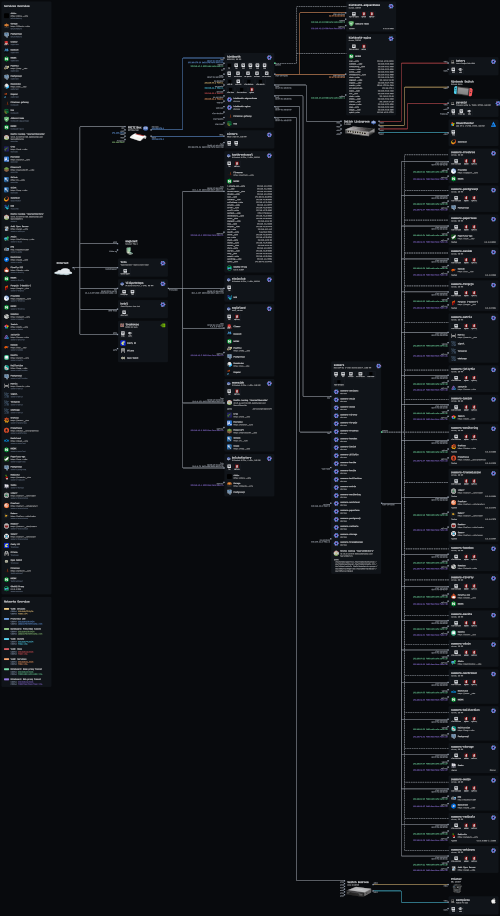
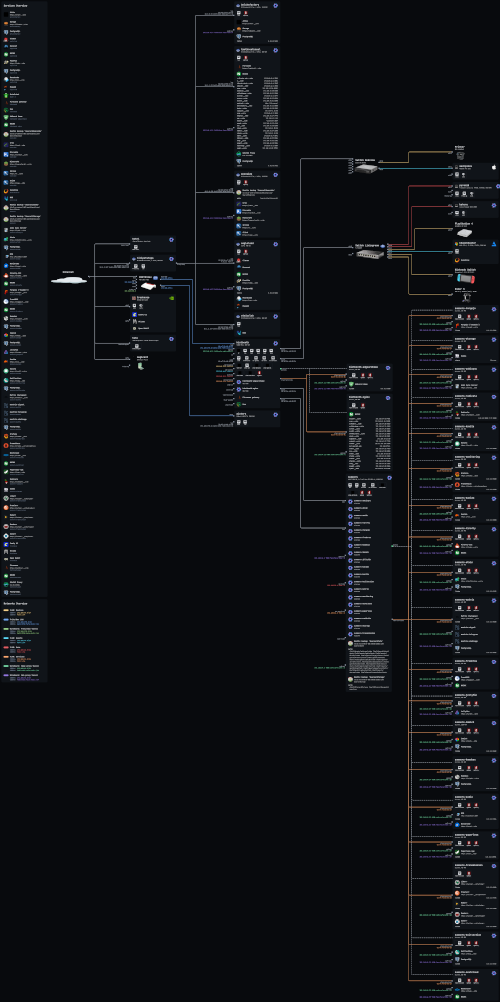
feat: update topology

diff --git a/.github/README.md b/.github/README.md
@@ -109,8 +109,7 @@
   <details>
     <summary>Click here for a summary of my infrastructure</summary>
 
-<img width="3854" height="7060" alt="topology" src="https://github.com/user-attachments/assets/fc557fdb-b779-4530-ae19-93ff019a2b29" />
-
+<img width="4176" height="8367" alt="topology" src="https://github.com/user-attachments/assets/8b7f148d-8e49-4788-ba0f-4487482a483b" />
 
   ### Programs
 
